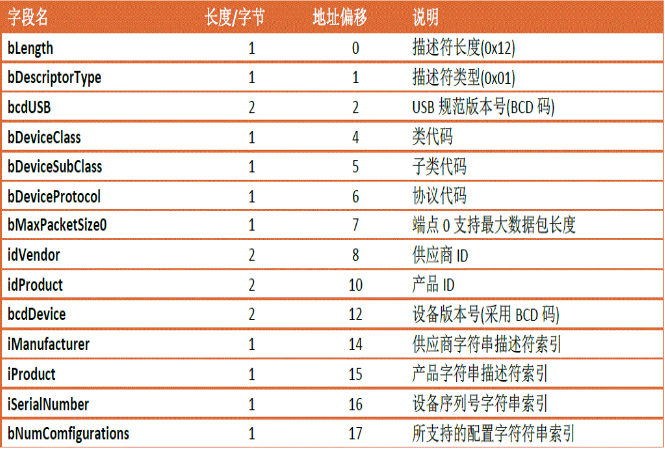
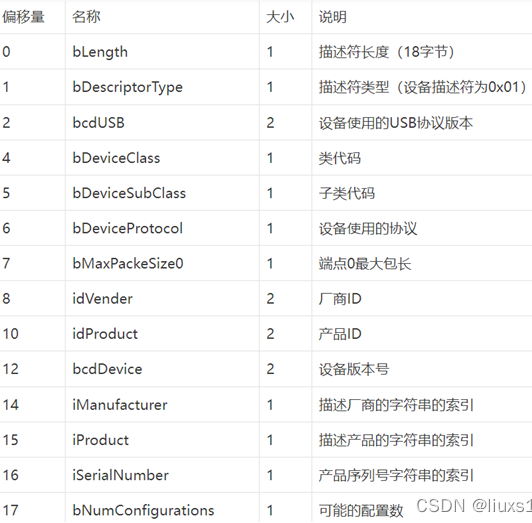
[CHG][TEST] 1. 添加部分 ARM debug 相关的英文单词 2. 修改介绍 USB device descript 的图片

diff --git a/English.md b/English.md
@@ -59,6 +59,8 @@ A
 |API|application programming interface|
 |assess|评估|
 |abrupt|突然的|
+|absence|缺席|
+|ARM Debug Interface v5 Architecture Specification, ARM IHI 0031E|ARM调试接口v5版本规范|
 
 B
 ---
@@ -176,6 +178,7 @@ C
 |complex conjugate|复共轭|
 |clear analogy|清晰的类比|
 |criteria|标准,评判条件|
+|CIDR|Component Identification Registers 组件ID寄存器|
 
 D
 ---
@@ -215,6 +218,7 @@ D
 |deduced|推断|
 |Delegating Constructors|委托构造函数|
 |DP|Debug Port，调试口|
+|DPIDR|Debug Port Identification register ,调试口的 ID 寄存器|
 |datagram|电报|
 |damped|阻尼|
 |damped sinusoidal signal|阻尼正弦信号|
@@ -655,6 +659,7 @@ S
 |significant|重要的|
 |settling|结束,解决|
 |settling time|调节时间|
+|stale|旧的,不新鲜的|
 
 T
 ---

diff --git a/Misc/USB.md b/Misc/USB.md
@@ -48,7 +48,7 @@
 ```
 10. USB 描述符:通过一套描述符,USB设备向USB主机描述自己的功能,属性,配置信息等标准描述符:
     1. 设备描述符(device descriptor),描述设备的类型,厂商信息,USB的协议类型,端点的包数据的最大长度等,每个USB设备**只有一个**设备描述符
-      ![](./figures/usb_dev_descriptor.png)
+        ![](./figures/usb_dev_descriptor.png)j
     
     2. 配置描述符(configuration descriptor),每个配置描述符提供了设备特定的配置,描述了设备的接口和端点的性质,供电模式和设备的耗电
     
